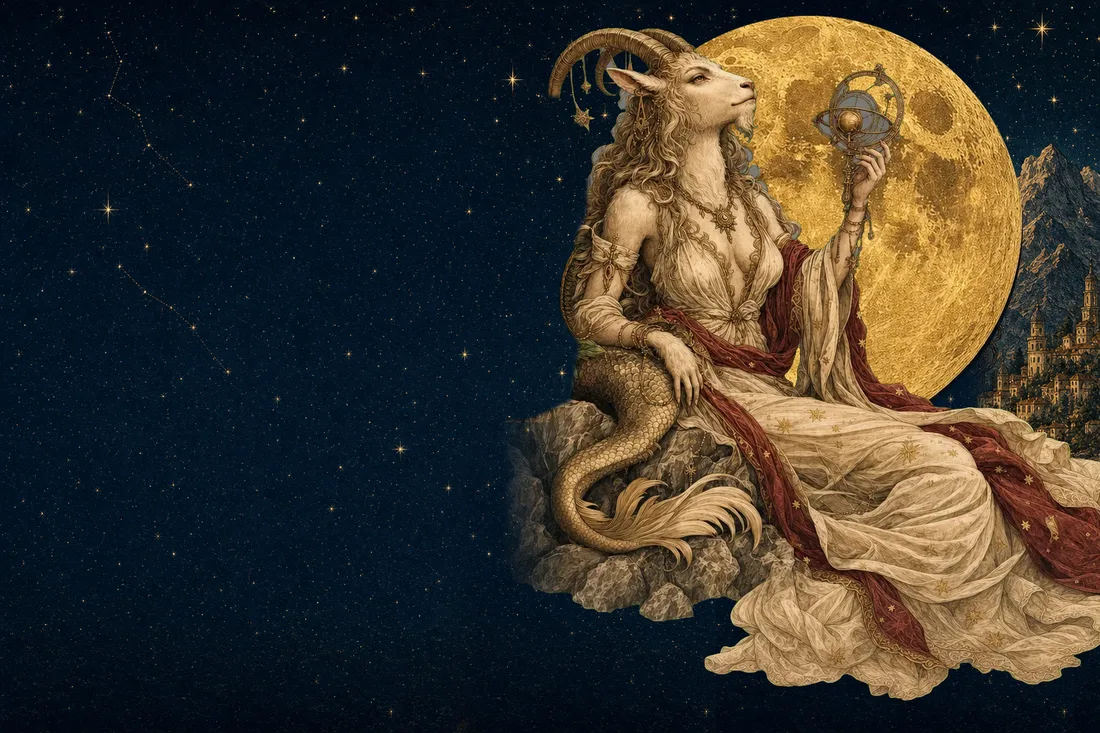
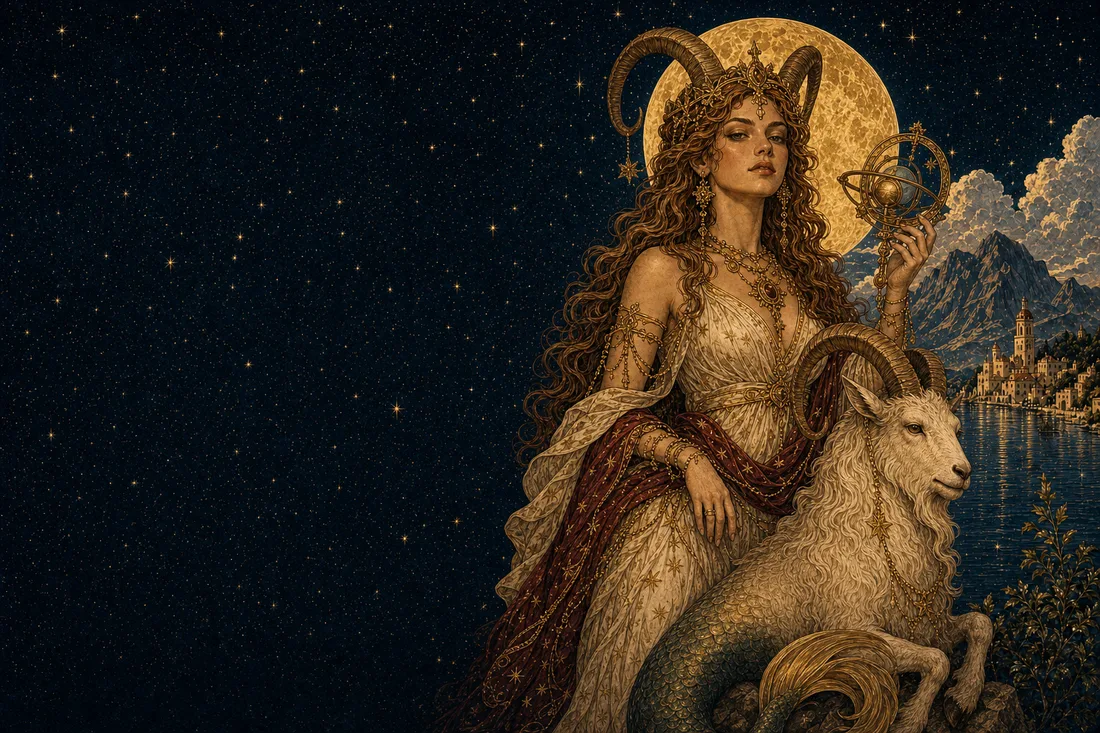
Capricorn's Horoscope header repainted to match the other signs: a woman crowned with goat horns, in cream and gold with a deep red shawl and holding an armillary, the card's sea-goat beside her, before the golden moon with the lake and castle at the right

diff --git a/docs/asset-manifest.md b/docs/asset-manifest.md
@@ -248,7 +248,7 @@ their space before they load.
 | `public/art/atlas/hsh-aquarius.webp` | 1100×733 | 1.50:1 | no | 161 | provisional |  |
 | `public/art/atlas/hsh-aries.webp` | 1100×733 | 1.50:1 | no | 207 | provisional |  |
 | `public/art/atlas/hsh-cancer.webp` | 1100×733 | 1.50:1 | no | 159 | provisional |  |
-| `public/art/atlas/hsh-capricorn.webp` | 1100×733 | 1.50:1 | no | 166 | provisional |  |
+| `public/art/atlas/hsh-capricorn.webp` | 1100×733 | 1.50:1 | no | 210 | provisional |  |
 | `public/art/atlas/hsh-gemini.webp` | 1100×733 | 1.50:1 | no | 182 | provisional |  |
 | `public/art/atlas/hsh-leo.webp` | 1100×733 | 1.50:1 | no | 200 | provisional |  |
 | `public/art/atlas/hsh-libra.webp` | 1100×733 | 1.50:1 | no | 158 | provisional |  |
